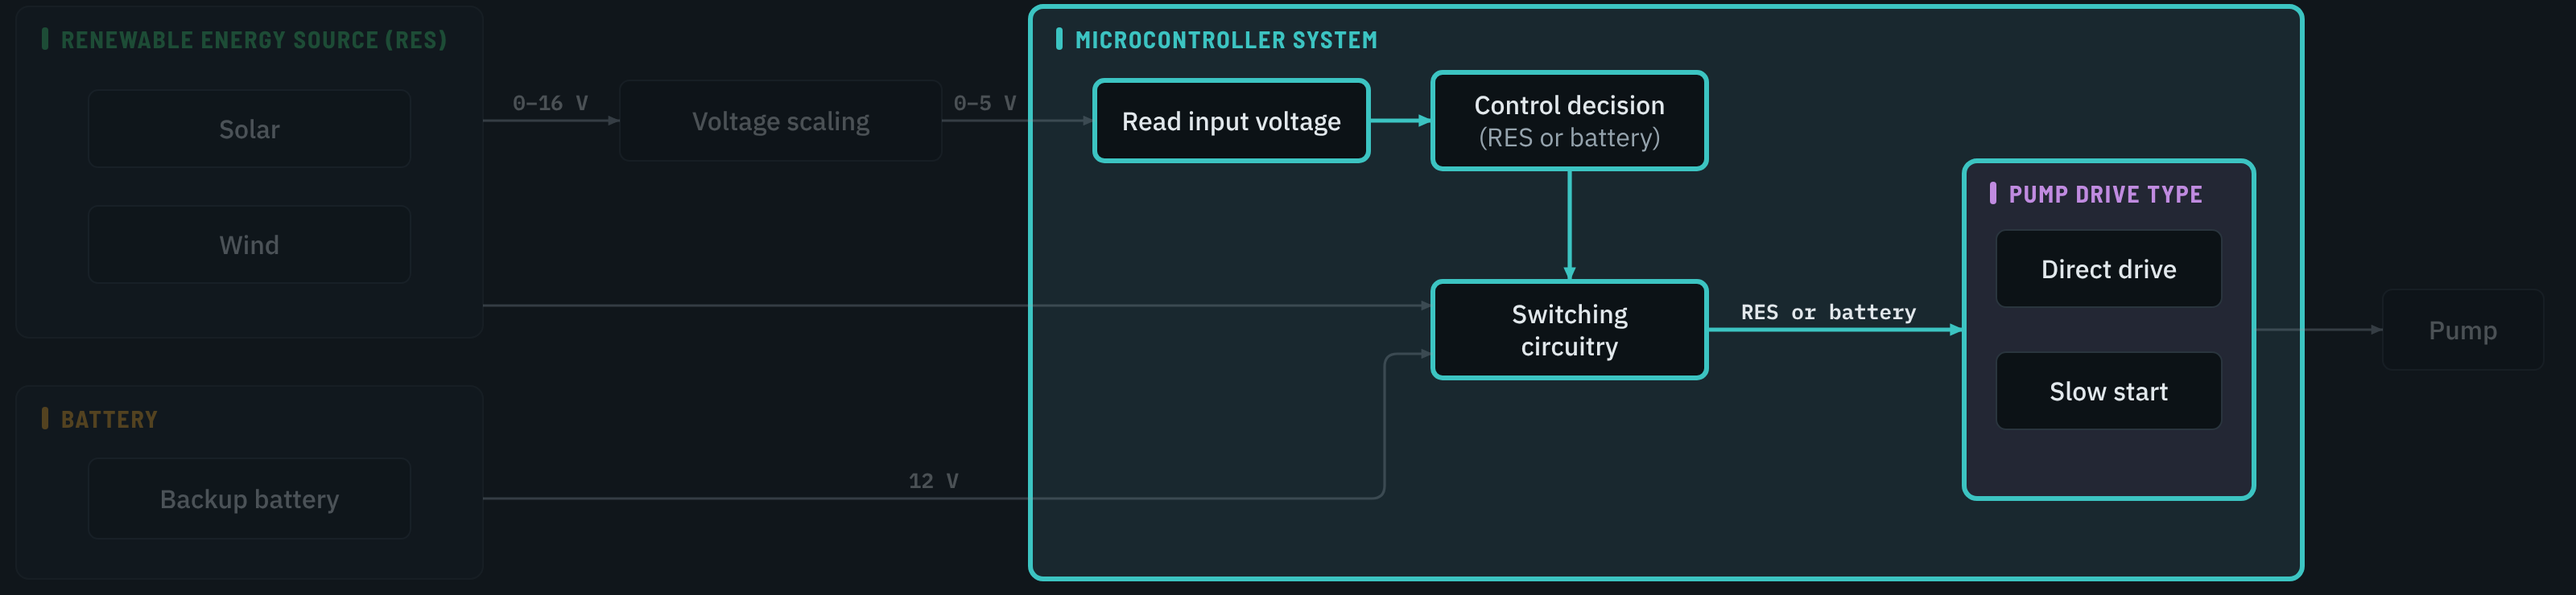
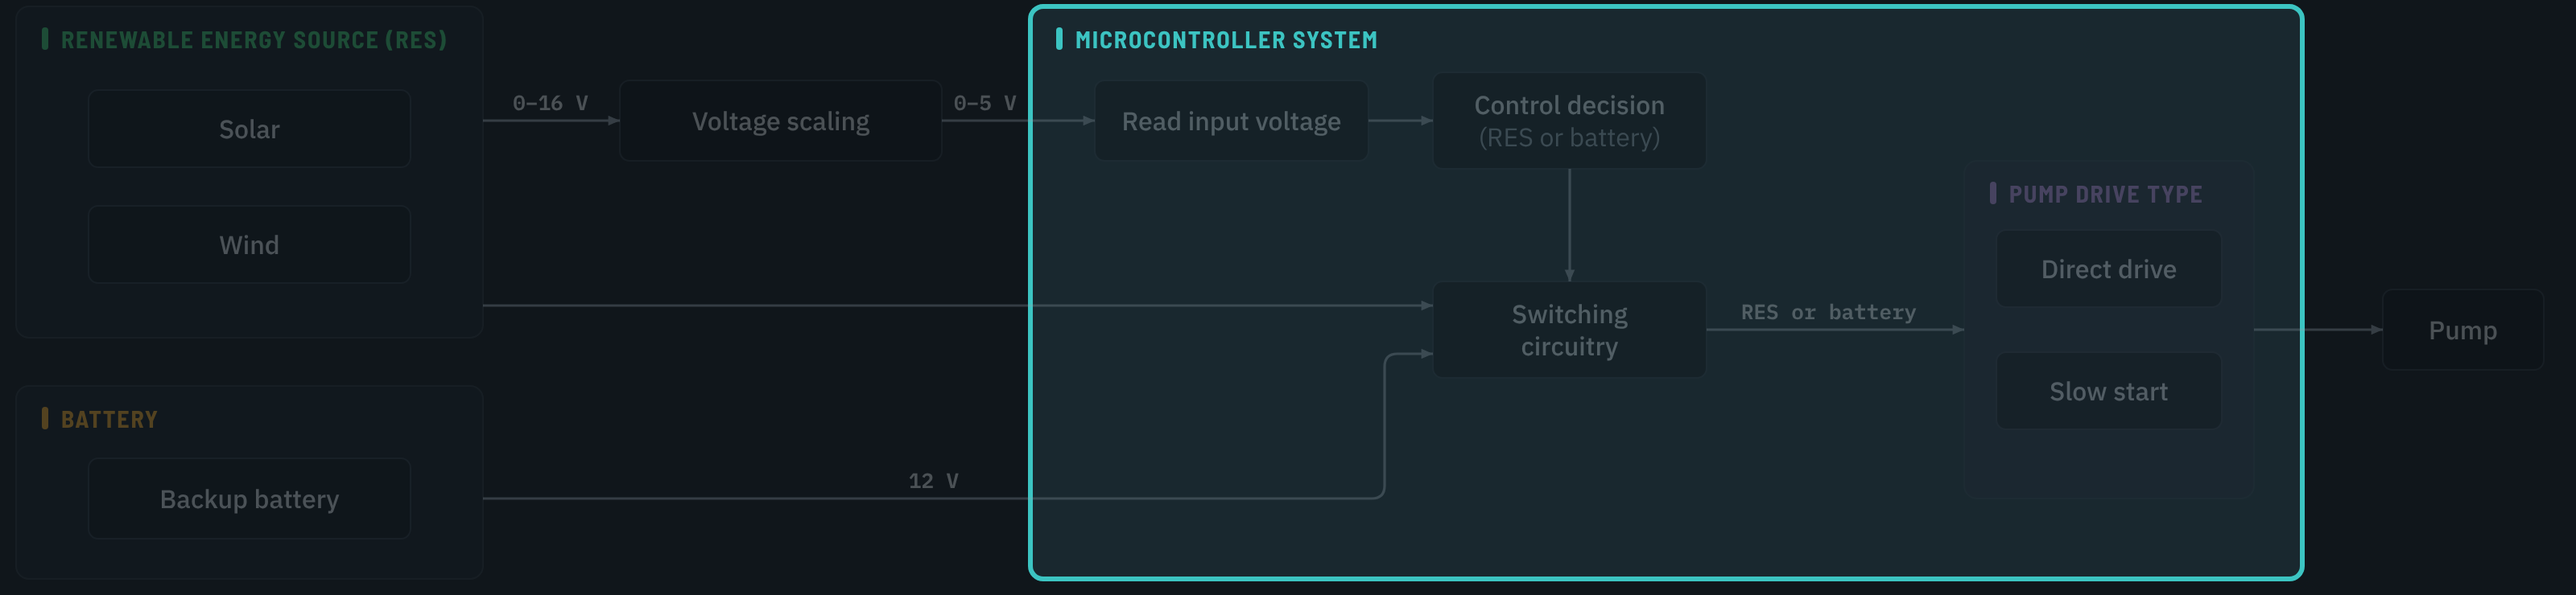
Chapter 2 diagram: highlight only the microcontroller system box
Claude-Session: https://claude.ai/code/session_01P87DN4FTkCasZDitRqwUir

diff --git a/mec1019/chapters/02-arduino.md b/mec1019/chapters/02-arduino.md
@@ -9,8 +9,8 @@ following chapters can concentrate on the project.
 ```{=html}
 <figure class="flow-diagram">
 <figcaption>System overview · Microcontroller system</figcaption>
-<a class="fd-light" href="images/system-microcontroller-light.png"><img src="images/system-microcontroller-light.png" width="1600" height="370" alt="Project overview diagram with the microcontroller system highlighted: read input voltage, control decision, switching circuitry and pump drive type; the energy sources, voltage scaling and pump are faded."></a>
-<a class="fd-dark" href="images/system-microcontroller-dark.png"><img src="images/system-microcontroller-dark.png" width="1600" height="370" alt="Project overview diagram with the microcontroller system highlighted: read input voltage, control decision, switching circuitry and pump drive type; the energy sources, voltage scaling and pump are faded."></a>
+<a class="fd-light" href="images/system-microcontroller-light.png"><img src="images/system-microcontroller-light.png" width="1600" height="370" alt="Project overview diagram with the microcontroller system box highlighted; everything else, including the blocks inside it, is faded."></a>
+<a class="fd-dark" href="images/system-microcontroller-dark.png"><img src="images/system-microcontroller-dark.png" width="1600" height="370" alt="Project overview diagram with the microcontroller system box highlighted; everything else, including the blocks inside it, is faded."></a>
 </figure>
 ```
 
